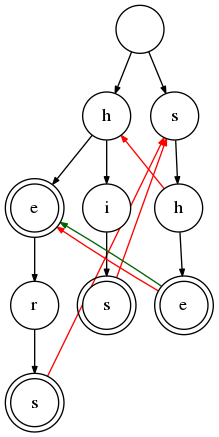
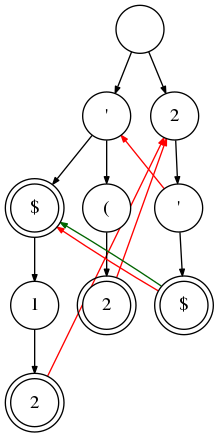
Standardized tests And added a new "encoding" of transitions. Basically shifting bytes.

diff --git a/trie_test.go b/trie_test.go
@@ -1,145 +1,135 @@
 package ahocorasick
 
 import (
-	"bytes"
 	"fmt"
 	"io/ioutil"
 	"os/exec"
 	"testing"
 )
 
-func TestWiki(t *testing.T) {
-	patterns := []string{
-		"a", "ab", "bab", "bc", "bca", "c", "caa",
-	}
-	input := "Aho-Corasick"
-	expected := []*Match{
-		&Match{match: []byte("a"), pos: 7},
-		&Match{match: []byte("c"), pos: 10},
+func TestTrie(t *testing.T) {
+	cases := []struct {
+		name     string
+		patterns []string
+		input    string
+		expected []*Match
+	}{
+		{
+			"Wikipedia",
+			[]string{"a", "ab", "bab", "bc", "bca", "c", "caa"},
+			"Aho-Corasick",
+			[]*Match{
+				newMatchString(7, "a"),
+				newMatchString(10, "c"),
+			},
+		},
+		{
+			"Prefix",
+			[]string{"Aho-Corasick", "Aho-Cora", "Aho", "A"},
+			"Aho-Corasick",
+			[]*Match{
+				newMatchString(0, "A"),
+				newMatchString(0, "Aho"),
+				newMatchString(0, "Aho-Cora"),
+				newMatchString(0, "Aho-Corasick"),
+			},
+		},
+		{
+			"Suffix",
+			[]string{"Aho-Corasick", "Corasick", "sick", "k"},
+			"Aho-Corasick",
+			[]*Match{
+				newMatchString(0, "Aho-Corasick"),
+				newMatchString(4, "Corasick"),
+				newMatchString(8, "sick"),
+				newMatchString(11, "k"),
+			},
+		},
+		{
+			"Infix",
+			[]string{"Aho-Corasick", "ho-Corasi", "o-Co", "-"},
+			"Aho-Corasick",
+			[]*Match{
+				newMatchString(3, "-"),
+				newMatchString(2, "o-Co"),
+				newMatchString(1, "ho-Corasi"),
+				newMatchString(0, "Aho-Corasick"),
+			},
+		},
+		{
+			"Overlap",
+			[]string{"Aho-Co", "ho-Cora", "o-Coras", "-Corasick"},
+			"Aho-Corasick",
+			[]*Match{
+				newMatchString(0, "Aho-Co"),
+				newMatchString(1, "ho-Cora"),
+				newMatchString(2, "o-Coras"),
+				newMatchString(3, "-Corasick"),
+			},
+		},
+		{
+			"Adjacent",
+			[]string{"Ah", "o-Co", "ras", "ick"},
+			"Aho-Corasick",
+			[]*Match{
+				newMatchString(0, "Ah"),
+				newMatchString(2, "o-Co"),
+				newMatchString(6, "ras"),
+				newMatchString(9, "ick"),
+			},
+		},
+		{
+			"SingleSymbol",
+			[]string{"o"},
+			"Aho-Corasick",
+			[]*Match{
+				newMatchString(2, "o"),
+				newMatchString(5, "o"),
+			},
+		},
+		{
+			"NoMatch",
+			[]string{"Gazorpazopfield", "Knuth", "O"},
+			"Aho-Corasick",
+			[]*Match{},
+		},
+		{
+			"Zeroes",
+			[]string{"\x00\x00"},
+			"\x00\x00Aho\x00\x00-\x00\x00Corasick\x00\x00",
+			[]*Match{
+				newMatchString(0, "\x00\x00"),
+				newMatchString(5, "\x00\x00"),
+				newMatchString(8, "\x00\x00"),
+				newMatchString(18, "\x00\x00"),
+			},
+		},
 	}
 
-	matches := NewTrieBuilder().AddStrings(patterns).Build().MatchString(input)
+	for _, c := range cases {
+		tr := NewTrieBuilder().AddStrings(c.patterns).Build()
+		matches := tr.MatchString(c.input)
 
-	if len(expected) != len(matches) {
-		t.Errorf("expected %d matches, got %d", len(expected), len(matches))
-	} else {
-		for i := range expected {
-			if !bytes.Equal(expected[i].Match(), matches[i].Match()) ||
-				expected[i].Pos() != matches[i].Pos() {
-				t.Errorf("expected %v, got %v", expected[i], matches[i])
+		if len(matches) != len(c.expected) {
+			t.Errorf("%s: expected %d matches, got %d", c.name, len(c.expected), len(matches))
+			continue
+		}
+
+		for i := range matches {
+			if !MatchEqual(matches[i], c.expected[i]) {
+				t.Errorf("%s: expected %v, got %v", c.name, matches[i], c.expected[i])
 			}
 		}
 	}
 }
 
-func TestPrefix(t *testing.T) {
-	trie := NewTrieBuilder().
-		AddStrings([]string{"Aho-Corasick", "Aho-Cora", "Aho", "A"}).
-		Build()
-	matches := trie.MatchString("Aho-Corasick")
-
-	if len(matches) != 4 {
-		t.Errorf("expected %d matches, got %d", 4, len(matches))
-	}
-}
-
-func TestSuffix(t *testing.T) {
-	trie := NewTrieBuilder().
-		AddStrings([]string{"Aho-Corasick", "Corasick", "rasick", "k"}).
-		Build()
-	matches := trie.MatchString("Aho-Corasick")
-
-	if len(matches) != 4 {
-		t.Errorf("expected %d matches, got %d", 4, len(matches))
-	}
-}
-
-func TestInfix(t *testing.T) {
-	trie := NewTrieBuilder().
-		AddStrings([]string{"Aho-Corasick", "ho-Corasi", "-Cora", "-"}).
-		Build()
-	matches := trie.MatchString("Aho-Corasick")
-
-	if len(matches) != 4 {
-		t.Errorf("expected %d matches, got %d", 4, len(matches))
-	}
-}
-
-func TestOverlap(t *testing.T) {
-	trie := NewTrieBuilder().
-		AddStrings([]string{"Aho-Co", "ho-Cora", "o-Coras", "-Corasick"}).
-		Build()
-	matches := trie.MatchString("Aho-Corasick")
-
-	if len(matches) != 4 {
-		t.Errorf("expected %d matches, got %d", 4, len(matches))
-	}
-}
-
-func TestAdjacent(t *testing.T) {
-	trie := NewTrieBuilder().
-		AddStrings([]string{"Ah", "o-Co", "ras", "ick"}).
-		Build()
-	matches := trie.MatchString("Aho-Corasick")
-
-	if len(matches) != 4 {
-		t.Errorf("expected %d matches, got %d", 4, len(matches))
-	}
-}
-
-func TestSingleSymbol(t *testing.T) {
-	trie := NewTrieBuilder().
-		AddStrings([]string{"o"}).
-		Build()
-	matches := trie.MatchString("Aho-Corasick")
-
-	if len(matches) != 2 {
-		t.Errorf("expected %d matches, got %d", 2, len(matches))
-	}
-}
-
-func TestNoMatch(t *testing.T) {
-	trie := NewTrieBuilder().
-		AddStrings([]string{"Gazorpazorpfield", "Knuth", "b"}).
-		Build()
-	matches := trie.MatchString("Aho-Corasick")
-
-	if len(matches) != 0 {
-		t.Errorf("expected %d matches, got %d", 0, len(matches))
-	}
-}
-
-func TestUtf8(t *testing.T) {
-	trie := NewTrieBuilder().
-		AddStrings([]string{"Øyvind", "lærer", "å", "♡"}).
-		Build()
-	matches := trie.MatchString("Øyvind lærer seg å programmere ♡")
-
-	if len(matches) != 4 {
-		t.Errorf("expected %d matches, got %d", 0, len(matches))
-	}
-}
-
-func TestZeroes(t *testing.T) {
-	trie := NewTrieBuilder().
-		AddPattern([]byte{0x00, 0x00}).
-		Build()
-
-	matches := trie.MatchString("\x00\x00Aho\x00\x00Cora\x00\x00sick\x00\x00\x00\x00")
-
-	if len(matches) != 6 {
-		t.Errorf("expected %d matches, got %d", 6, len(matches))
-	}
-}
-
 func TestMatchFirst(t *testing.T) {
-	trie := NewTrieBuilder().AddString("foo").Build()
+	trie := NewTrieBuilder().AddString("o").Build()
+	match := trie.MatchStringFirst("Aho-Corasick")
+	expected := newMatchString(2, "o")
 
-	match := trie.MatchStringFirst("foo foo foo foo foo foo foo foo foo foo foo foo")
-
-	if match.MatchString() != "a" || match.Pos() != 0 {
-		fmt.Errorf("expected match %q at %d, got match %q at %d",
-			"a", 0, match.MatchString(), match.Pos())
+	if !MatchEqual(match, expected) {
+		fmt.Errorf("expected %v, got %v", expected, match)
 	}
 }
 

diff --git a/trie.go b/trie.go
@@ -30,7 +30,7 @@ func (tr *Trie) Match(input []byte) []*Match {
 	s := RootState
 
 	for i, c := range input {
-		s = tr.step(s, c+1)
+		s = tr.step(s, encodeByte(c))
 
 		if tr.dict[s] != 0 {
 			pos := int64(i+1) - tr.dict[s]
@@ -51,7 +51,7 @@ func (tr *Trie) MatchFirst(input []byte) *Match {
 	s := RootState
 
 	for i, c := range input {
-		s = tr.step(s, c+1)
+		s = tr.step(s, encodeByte(c))
 
 		if tr.dict[s] != 0 {
 			pos := int64(i+1) - tr.dict[s]
@@ -87,45 +87,23 @@ func (tr *Trie) NumPatterns() int64 {
 	return c
 }
 
-func (tr *Trie) step(s int64, c byte) int64 {
-	t := tr.base[s] + int64(c)
+func (tr *Trie) step(s, c int64) int64 {
+	t := tr.base[s] + c
 	if t < int64(len(tr.check)) && tr.check[t] == s {
 		return t
 	}
 
 	for f := tr.fail[s]; f > 0; f = tr.fail[f] {
-		t := tr.base[f] + int64(c)
+		t := tr.base[f] + c
 		if t < int64(len(tr.check)) && tr.check[t] == f {
 			return t
 		}
 	}
 
-	t = tr.base[RootState] + int64(c)
+	t = tr.base[RootState] + c
 	if t < int64(len(tr.check)) && tr.check[t] == RootState {
 		return t
 	}
 
 	return RootState
-}
-
-func (tr *Trie) pathString(t int64) string {
-	return string(tr.pathBytes(t))
-}
-
-func (tr *Trie) pathBytes(t int64) []byte {
-	pathInts := tr.path(t)
-	pathBytes := make([]byte, len(pathInts))
-	for i := range pathInts {
-		pathBytes[i] = byte(pathInts[i])
-	}
-	return pathBytes
-}
-
-func (tr *Trie) path(t int64) []int64 {
-	if tr.check[t] == -1 {
-		return nil
-	}
-	s := tr.check[t]
-	c := t - tr.base[s]
-	return append(tr.path(s), c)
 }

diff --git a/builder.go b/builder.go
@@ -37,7 +37,7 @@ func (tb *TrieBuilder) AddPattern(pattern []byte) *TrieBuilder {
 	s := RootState
 
 	for _, c := range pattern {
-		t := tb.base[s] + int64(c+1)
+		t := tb.base[s] + encodeByte(c)
 
 		if t >= int64(len(tb.check)) || tb.check[t] == EmptyCell {
 			// Cell is empty: expand arrays and set transition.
@@ -62,7 +62,7 @@ func (tb *TrieBuilder) AddPattern(pattern []byte) *TrieBuilder {
 			// Update s and t if o had transitions to s.
 			if oc != EmptyCell {
 				s = tb.base[o] + oc
-				t = tb.base[s] + int64(c+1)
+				t = tb.base[s] + encodeByte(c)
 			}
 
 			// Set transition.
@@ -283,4 +283,10 @@ func (tb *TrieBuilder) relocate(s int64) {
 
 	// Finally we can move the base for s.
 	tb.base[s] = b
+}
+
+func encodeByte(b byte) int64 {
+	// "Optimize" for ASCII text by shifting to 0x41 ('A').
+	// We also add one here to avoid c = 0.
+	return int64(((int64(b) - 0x41 + AlphabetSize) % AlphabetSize) + 1)
 }

diff --git a/match.go b/match.go
@@ -1,5 +1,10 @@
 package ahocorasick
 
+import (
+	"bytes"
+	"fmt"
+)
+
 // Represents a matched pattern.
 type Match struct {
 	pos   int64
@@ -8,6 +13,14 @@ type Match struct {
 
 func newMatch(pos int64, match []byte) *Match {
 	return &Match{pos, match}
+}
+
+func newMatchString(pos int64, match string) *Match {
+	return &Match{pos, []byte(match)}
+}
+
+func (m *Match) String() string {
+	return fmt.Sprintf("{%v %q}", m.pos, m.match)
 }
 
 // Get the position (offset) of the matched pattern.
@@ -21,3 +34,8 @@ func (m *Match) Match() []byte { return m.match }
 
 // Just to make working with strings a little more comfortable.
 func (m *Match) MatchString() string { return string(m.match) }
+
+// Check if two matches are equal.
+func MatchEqual(m1, m2 *Match) bool {
+	return bytes.Equal(m1.match, m2.match) && m1.pos == m2.pos
+}
